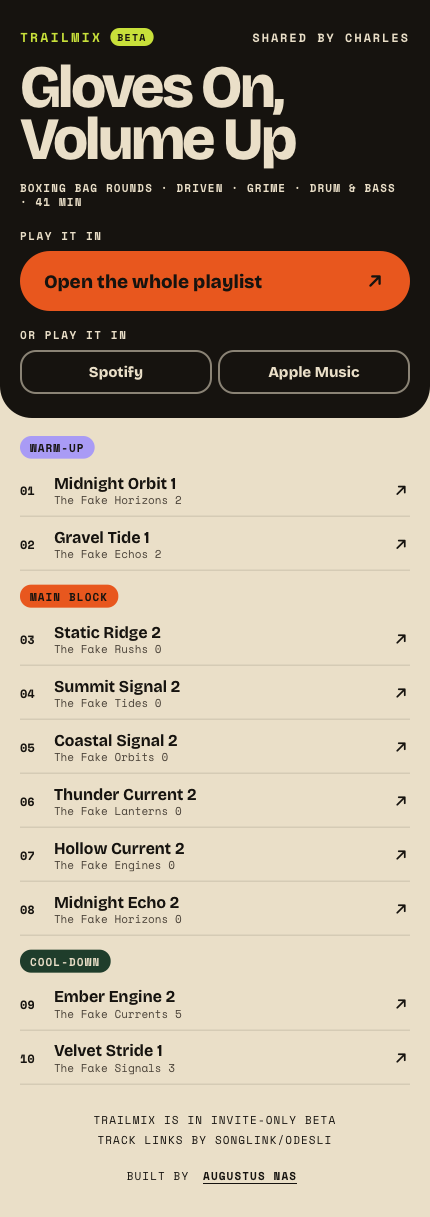
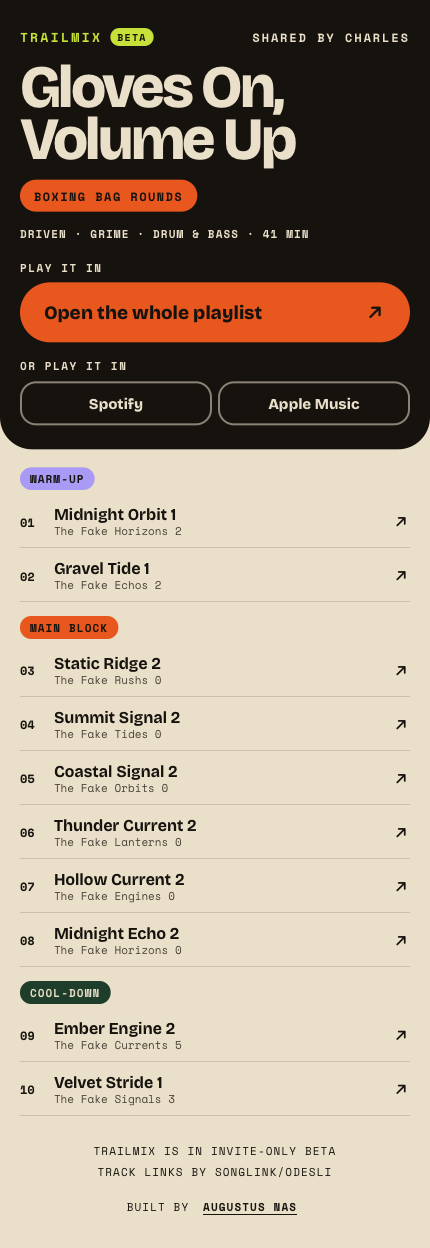
Align Milestone 3 with TEST-PLAN.md
Use the test plan's wording for E9, E11, E14 and E17. E5 now follows the
plan: with YouTube's daily limit used up, Keep it offers the mix page and
Share instead (the real quota check arrives in Milestone 4). The shared
page shows the routine in its colour (F21), link finding has a progress
bar (E2), the progress state is in the screenshots (N8), and F18 is
tested with exactly 10 previous mixes. Adds TEST-PLAN.md.

Claude-Session: https://claude.ai/code/session_01RD9qmRxbgP4HREQxgbRNJD

diff --git a/src/app/mix/MixScreen.tsx b/src/app/mix/MixScreen.tsx
@@ -17,6 +17,7 @@ import { MESSAGES, type ErrorCode } from "@/lib/messages";
 import { fetchLinks, linksReady, requestMix, requestSwap, shareMix } from "@/lib/mixClient";
 import { PHASES, runningMinutes, type Mix } from "@/lib/mixTypes";
 import { addRecentMix, load, setCurrentMix, useSaved, type VibeSettings } from "@/lib/store";
+import { shareLink } from "@/lib/share";
 import { useOnline } from "@/lib/useOnline";
 import { routineFromParams, routineHref } from "@/lib/vibeParams";
 import styles from "./mix.module.css";
@@ -58,6 +59,8 @@ function MixMaker({ routine, vibe }: { routine: Routine; vibe: VibeSettings }) {
   const [busy, setBusy] = useState<"making" | "remixing" | "keeping" | { swapping: number } | null>(null);
   const [problem, setProblem] = useState<Problem | null>(null);
   const [step, setStep] = useState("");
+  /** E5: YouTube's daily limit is used up; offer the mix page and Share instead. */
+  const [quotaId, setQuotaId] = useState<string | null>(null);
   const started = useRef(false);
 
   const handle = useCallback((res: ApiResult<{ mix: Mix }>) => {
@@ -121,12 +124,13 @@ function MixMaker({ routine, vibe }: { routine: Routine; vibe: VibeSettings }) {
   const keep = async () => {
     if (!mix) return;
     setBusy("keeping");
-    const res = mix.shareId ? { ok: true as const, data: { id: mix.shareId } } : await shareMix(mix);
+    const res = await shareMix(mix, app.id === "ytm");
     setBusy(null);
     if (!res.ok) return setProblem({ error: res.error, message: res.message });
     const kept = { ...mix, shareId: res.data.id };
     setCurrentMix(kept);
     addRecentMix(kept);
+    if (res.data.youtube === "quota") return setQuotaId(res.data.id); // E5
     // MILESTONE 4: YouTube Music users get a real playlist saved here, before Saved.
     if (app.id === "ytm") router.push(routineHref("/saved", routine.id));
     else router.push(`/m/${res.data.id}`);
@@ -183,15 +187,35 @@ function MixMaker({ routine, vibe }: { routine: Routine; vibe: VibeSettings }) {
           </p>
         )}
 
+        {quotaId && mix && (
+          <div className={styles.problem} role="alert" data-testid="youtube-quota">
+            <p>{MESSAGES.youtubeQuota}</p>
+            <a href={`/m/${quotaId}`} className="cta cta--medium" style={{ background: "var(--ink)", color: "var(--lime)" }}>
+              <span>Open the mix page</span>
+            </a>
+            <button
+              type="button"
+              className="cta cta--medium"
+              style={{ border: "2px solid var(--ink)", color: "var(--ink)" }}
+              onClick={() => shareLink(quotaId, mix.name)}
+            >
+              <span>Share the list</span>
+            </button>
+          </div>
+        )}
+
         {problem && <ProblemBox problem={problem} routine={routine} onRetry={() => make(problem.error === "failed" ? undefined : undefined)} />}
 
         {mix && !making && (
           <>
             {mix.shortened && <p className={styles.note}>{MESSAGES.shortened}</p>}
             {pending > 0 && online && (
-              <p className={styles.note} role="status" data-testid="links-progress">
-                Finding links {mix.tracks.length - pending} of {mix.tracks.length}
-              </p>
+              <div className={styles.linksProgress} data-testid="links-progress">
+                <p className={styles.note} role="status">
+                  Finding links {mix.tracks.length - pending} of {mix.tracks.length}
+                </p>
+                <progress max={mix.tracks.length} value={mix.tracks.length - pending} aria-label="Links found" />
+              </div>
             )}
             {PHASES.map((p) => {
               const tracks = mix.tracks.map((t, i) => ({ t, i })).filter(({ t }) => t.phase === p.id);

diff --git a/e2e/m3-mixes.spec.ts b/e2e/m3-mixes.spec.ts
@@ -1,6 +1,7 @@
 import { expect, test, type Page } from "@playwright/test";
 import { readFileSync, readdirSync, statSync } from "node:fs";
 import { join } from "node:path";
+import { CATALOG } from "../src/server/fakes";
 import { BOXING_VIBE, ONBOARDED, TEST_ACCESS_CODE, makeSharedMix, seed, stored, waitForMix } from "./helpers";
 
 const switchOn = (page: Page, v: string) => page.addInitScript((x) => sessionStorage.setItem("trailmix-test-switch", x), v);
@@ -87,8 +88,8 @@ test.describe("making mixes", () => {
   });
 
   for (const [sw, message] of [
-    ["e9", "That's 20 mixes this hour. Take a breather and try again soon."],
-    ["e14", "Trailmix has made all the mixes it can for today. Back after midnight."],
+    ["e9", "That's a lot of mixes. Back in a few minutes."],
+    ["e14", "Trailmix has made enough mixes for today. Back tomorrow."],
     ["e15", "Mix-making is paused. Back soon."],
   ] as const) {
     test(`${sw.toUpperCase()}: "${message}"`, async ({ page }) => {
@@ -138,6 +139,41 @@ test.describe("making mixes", () => {
     const second = await titles(page);
     expect(second.filter((t) => !first.includes(t)).length / second.length).toBeGreaterThanOrEqual(0.7);
   });
+});
+
+test("E5: YouTube's daily limit used up → Keep it offers the mix page and Share instead; mixes still work", async ({ page }) => {
+  await seed(page, { ...ONBOARDED, vibes: BOXING_VIBE });
+  await switchOn(page, "e5");
+  await page.goto("/mix?routine=boxing-bag-rounds");
+  await waitForMix(page);
+  await page.getByTestId("mix-action").click();
+  const box = page.getByTestId("youtube-quota");
+  await expect(box).toContainText("YouTube's daily limit is used up. Try tomorrow or share the list.");
+  await expect(page).toHaveURL(/\/mix\?routine=boxing-bag-rounds$/); // the mix stays on screen
+  await box.getByRole("link", { name: "Open the mix page" }).click();
+  await expect(page.getByRole("heading", { name: "Gloves On, Volume Up" })).toBeVisible();
+});
+
+test("F18: given 10 previous mixes, at least 70% of a new mix is new, and its freshness is recorded when kept", async ({ page }) => {
+  // Ten earlier mixes of ten tracks each, drawn from the same recorded catalogue the stand-in Claude uses.
+  const recentMixes = Array.from({ length: 10 }, (_, m) => ({
+    name: `Earlier ${m}`,
+    routineId: "boxing-bag-rounds",
+    date: `2026-10-${String(m + 1).padStart(2, "0")}`,
+    freshness: 100,
+    tracks: CATALOG.slice(m * 10, m * 10 + 10).map((t) => ({ title: t.title, artist: t.artist })),
+  }));
+  const previous = new Set(recentMixes.flatMap((m) => m.tracks.map((t) => t.title)));
+  await seed(page, { ...ONBOARDED, vibes: BOXING_VIBE, recentMixes });
+  await page.goto("/mix?routine=boxing-bag-rounds");
+  await waitForMix(page);
+  const now = await titles(page);
+  const fresh = now.filter((t) => !previous.has(t)).length / now.length;
+  expect(fresh).toBeGreaterThanOrEqual(0.7);
+  await page.getByTestId("mix-action").click();
+  await page.getByTestId("saved-action").waitFor();
+  const kept = (await stored(page)).recentMixes[0];
+  expect(kept.freshness).toBe(Math.round(fresh * 100));
 });
 
 test("a phone set up before access codes is asked for the code when it makes a mix", async ({ page }) => {

diff --git a/src/lib/messages.ts b/src/lib/messages.ts
@@ -1,19 +1,20 @@
-// Every friendly message the server can send back, in one place. Codes travel with them so the
+// Every friendly message the server can send back, in one place. Wording follows TEST-PLAN.md. Codes travel with them so the
 // app can react (e.g. ask for the access code again).
 
 export const MESSAGES = {
   access: "That code didn't work. Check it with whoever invited you.",
   accessAttempts: "Too many tries. Wait an hour, then try the code again.",
   paused: "Mix-making is paused. Back soon.",
-  ceiling: "Trailmix has made all the mixes it can for today. Back after midnight.",
-  hourly: "That's 20 mixes this hour. Take a breather and try again soon.",
-  invalid: "Something about that request wasn't right. Go back and set the vibe again.",
+  ceiling: "Trailmix has made enough mixes for today. Back tomorrow.",
+  hourly: "That's a lot of mixes. Back in a few minutes.",
+  invalid: "Something's off with those settings. Pick again.",
   failed: "The mix didn't come together. Try again.",
   resting: "Mix-making is resting right now. Try again later.",
   offline: "You're offline.",
   shortened: "A few tracks couldn't be found, so this mix is a little shorter.",
-  sharesDaily: "That's 20 shares today. Try again tomorrow.",
-  viewsBusy: "Lots of people are looking at this mix. Wait a moment and refresh.",
+  sharesDaily: "That's today's sharing done. More tomorrow.",
+  viewsBusy: "Easy there. Try again in a minute.",
+  youtubeQuota: "YouTube's daily limit is used up. Try tomorrow or share the list.",
 } as const;
 
 export type ErrorCode = keyof typeof MESSAGES;

diff --git a/e2e/limits.spec.ts b/e2e/limits.spec.ts
@@ -28,7 +28,7 @@ test("E17: 20 shares a day per access code, then a friendly message", async ({ r
   }
   const res = await request.post("/api/share", { headers, data: { mix: sampleMix } });
   expect(res.status()).toBe(429);
-  expect((await res.json()).message).toBe("That's 20 shares today. Try again tomorrow.");
+  expect((await res.json()).message).toBe("That's today's sharing done. More tomorrow.");
 });
 
 test("E17 / N16: 60 shared-page views a minute per visitor, then a friendly page", async ({ request, page }) => {
@@ -38,7 +38,7 @@ test("E17 / N16: 60 shared-page views a minute per visitor, then a friendly page
   expect(ok).toBe(60);
   await page.setExtraHTTPHeaders(IP);
   await page.goto(`/m/${shareId}`);
-  await expect(page.getByTestId("views-busy")).toHaveText("Lots of people are looking at this mix. Wait a moment and refresh.");
+  await expect(page.getByTestId("views-busy")).toHaveText("Easy there. Try again in a minute.");
 });
 
 test("E9: 20 mixes an hour per person, then a friendly message", async ({ request }) => {
@@ -46,5 +46,5 @@ test("E9: 20 mixes an hour per person, then a friendly message", async ({ reques
   for (let i = 0; i < 20; i++) expect((await request.post("/api/mix", { headers, data })).status(), `mix ${i + 1}`).toBe(200);
   const res = await request.post("/api/mix", { headers, data });
   expect(res.status()).toBe(429);
-  expect((await res.json()).message).toBe("That's 20 mixes this hour. Take a breather and try again soon.");
+  expect((await res.json()).message).toBe("That's a lot of mixes. Back in a few minutes.");
 });

diff --git a/src/app/api/share/route.ts b/src/app/api/share/route.ts
@@ -2,16 +2,21 @@ import { getRoutine } from "@/data/routines";
 import { sanitizeMix } from "@/lib/mixTypes";
 import { checkAccess, codeKey } from "@/server/access";
 import { clientIp, fail, ok, readJson } from "@/server/http";
-import { shareAllowed } from "@/server/limits";
+import { shareAllowed, youtubeSaveQuotaLeft } from "@/server/limits";
 import { storeShare } from "@/server/shares";
+import { testSwitch } from "@/server/testSwitch";
 
 // F15: stores a mix as a shared mix page (Keep it / Open in…). 20 a day per access code (E17).
 export async function POST(req: Request) {
   const access = checkAccess(req, clientIp(req));
   if (!access.ok) return fail("access", 401);
-  const body = (await readJson(req)) as { mix?: unknown } | undefined;
+  const body = (await readJson(req)) as { mix?: unknown; saveToYouTube?: unknown } | undefined;
   const mix = sanitizeMix(body?.mix);
   if (!mix || !getRoutine(mix.routineId)) return fail("invalid", 400);
   if (!(await shareAllowed(codeKey(req)))) return fail("sharesDaily", 429);
-  return ok({ id: await storeShare(mix) });
+  const id = await storeShare(mix);
+  // Keep it for YouTube Music users. MILESTONE 4: save the real playlist here.
+  // E5: no YouTube quota left → the mix page still works; the app offers it and Share instead.
+  const youtube = body?.saveToYouTube === true ? ((await youtubeSaveQuotaLeft(testSwitch(req))) ? "ok" : "quota") : undefined;
+  return ok({ id, youtube });
 }

diff --git a/src/app/m/[id]/page.tsx b/src/app/m/[id]/page.tsx
@@ -4,6 +4,7 @@ import { notFound } from "next/navigation";
 import { cache } from "react";
 import { Wordmark } from "@/components/Beta";
 import { Headline } from "@/components/Headline";
+import { RoutineTag } from "@/components/RoutineTag";
 import { getRoutine } from "@/data/routines";
 import { energyLabel, genreLabel } from "@/lib/format";
 import { MESSAGES } from "@/lib/messages";
@@ -46,8 +47,11 @@ export default async function SharedMix({ params }: { params: Promise<{ id: stri
           </span>
         </div>
         <Headline text={mix.name} size="shared" style={{ lineHeight: 0.88, letterSpacing: "-0.045em" }} />
+        <div>
+          <RoutineTag routine={routine} />
+        </div>
         <p className="mono">
-          {routine.name} · {energyLabel(mix.energy)} · {mix.genres.map(genreLabel).join(" · ")} · {runningMinutes(mix)} min
+          {energyLabel(mix.energy)} · {mix.genres.map(genreLabel).join(" · ")} · {runningMinutes(mix)} min
         </p>
       </header>
       <SharedPlayer mix={mix} />

diff --git a/src/app/api/links/route.ts b/src/app/api/links/route.ts
@@ -1,7 +1,6 @@
 import { checkAccess } from "@/server/access";
 import { clientIp, fail, ok, readJson } from "@/server/http";
 import { findLinks, type LinkResult } from "@/server/lookup";
-import { testSwitch } from "@/server/testSwitch";
 import { cleanText } from "@/server/validate";
 
 export const maxDuration = 60;
@@ -22,11 +21,6 @@ export async function POST(req: Request) {
     const appleUrl = typeof t?.appleUrl === "string" && /^https:\/\/music\.apple\.com\//.test(t.appleUrl) ? t.appleUrl : null;
     return title && artist && appleUrl ? [{ title, artist, appleUrl }] : [];
   });
-
-  // E5 test switch: links unavailable, so tracks keep only their Apple links.
-  if (testSwitch(req) === "e5") {
-    return ok({ results: tracks.map((t) => ({ key: "", links: {}, done: true, title: t.title, artist: t.artist })), retryAfterMs: 0 });
-  }
 
   const results: (LinkResult & { title: string; artist: string })[] = [];
   const started = Date.now();

diff --git a/src/app/mix/mix.module.css b/src/app/mix/mix.module.css
@@ -111,3 +111,27 @@
 .keep {
   border: 0;
 }
+
+.linksProgress {
+  display: flex;
+  flex-direction: column;
+  gap: 6px;
+}
+.linksProgress progress {
+  width: 100%;
+  height: 8px;
+  appearance: none;
+  -webkit-appearance: none;
+  border: 0;
+  border-radius: var(--radius-pill);
+  overflow: hidden;
+  background: rgba(22, 19, 15, 0.15);
+}
+.linksProgress progress::-webkit-progress-bar {
+  background: rgba(22, 19, 15, 0.15);
+  border-radius: var(--radius-pill);
+}
+.linksProgress progress::-webkit-progress-value {
+  background: var(--ink);
+  border-radius: var(--radius-pill);
+}

diff --git a/src/app/reset/TestSwitches.tsx b/src/app/reset/TestSwitches.tsx
@@ -10,7 +10,7 @@ const SWITCHES = [
   { id: "e1", label: "E1 · Tracks can't be found (mix comes out shorter)" },
   { id: "e3", label: "E3 · The mix doesn't come together" },
   { id: "e4", label: "E4 · Mix-making is resting (Claude down)" },
-  { id: "e5", label: "E5 · Track links unavailable (provisional)" },
+  { id: "e5", label: "E5 · YouTube's daily limit used up (Keep it)" },
   { id: "e9", label: "E9 · Hourly limit reached" },
   { id: "e10", label: "E10 · Pretend to be offline" },
   { id: "e14", label: "E14 · Daily ceiling reached" },

diff --git a/src/lib/mixClient.ts b/src/lib/mixClient.ts
@@ -53,6 +53,7 @@ export async function fetchLinks(mix: Mix): Promise<{ mix: Mix; retryAfterMs: nu
 
 export const linksReady = (mix: Mix) => mix.tracks.every((t) => !t.linksPending);
 
-export function shareMix(mix: Mix) {
-  return callApi<{ id: string }>("/api/share", { mix });
+/** Stores the mix as a shared page. For YouTube Music users' Keep it, also asks to save (E5 if no quota). */
+export function shareMix(mix: Mix, saveToYouTube = false) {
+  return callApi<{ id: string; youtube?: "ok" | "quota" }>("/api/share", { mix, saveToYouTube });
 }

diff --git a/src/server/limits.ts b/src/server/limits.ts
@@ -54,3 +54,11 @@ export async function youtubeSearchAllowed(mixId: string): Promise<boolean> {
   if (!(await within(`yt:mix:${mixId}`, LIMITS.youtubeSearchesPerMix, DAY))) return false;
   return within(day, LIMITS.youtubeSearchesPerDay, 2 * DAY);
 }
+
+/**
+ * E5: is there YouTube quota left today for saving a playlist? MILESTONE 4: check the real quota
+ * used by saves. Until then only the E5 test switch says no.
+ */
+export async function youtubeSaveQuotaLeft(forced?: string | null): Promise<boolean> {
+  return forced !== "e5";
+}

diff --git a/e2e/screens.ts b/e2e/screens.ts
@@ -83,6 +83,13 @@ export const SCREENS: Screen[] = [
   },
   { name: "mix", path: "/mix?routine=boxing-bag-rounds", state: onboarded(), setup: waitForMix },
   {
+    name: "mix-making",
+    path: "/mix?routine=boxing-bag-rounds",
+    state: onboarded(),
+    testSwitch: "slow",
+    setup: async (page) => void (await page.getByText("Picking tracks for your vibe…").waitFor()),
+  },
+  {
     name: "mix-failed",
     path: "/mix?routine=boxing-bag-rounds",
     state: onboarded(),
